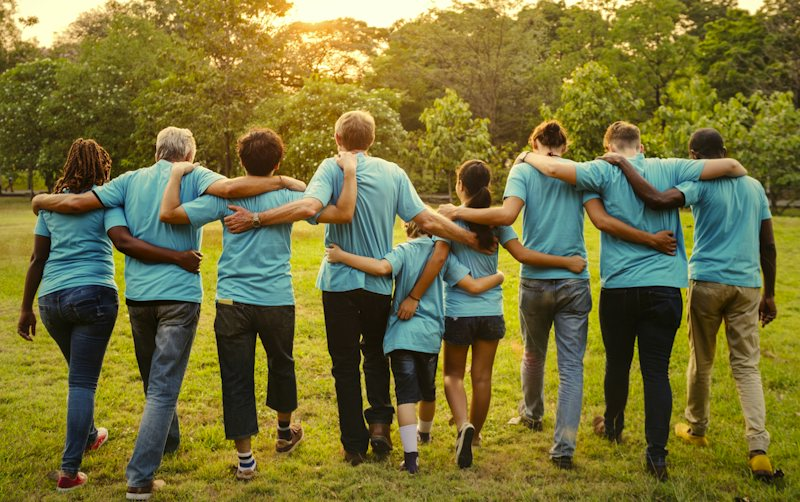
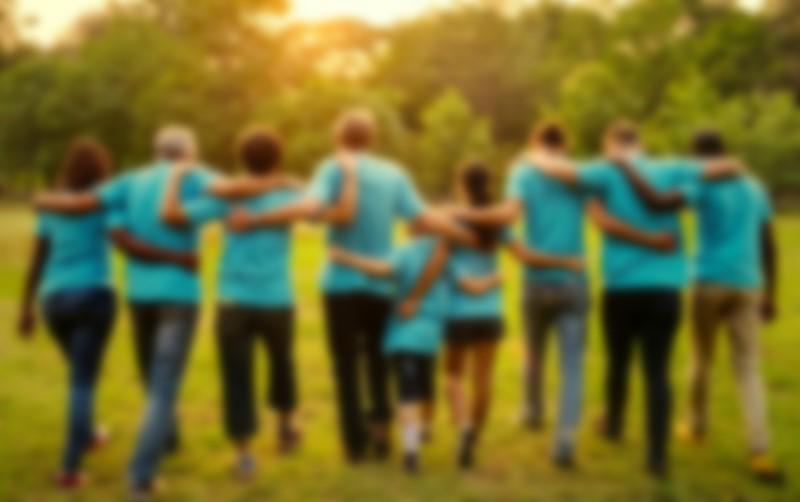
ui update

diff --git a/MBCM_PWA/Client/Pages/Guest.razor.css b/MBCM_PWA/Client/Pages/Guest.razor.css
@@ -1,0 +1,73 @@
+.main-container {
+    position: relative;
+    height: 80vh;
+    overflow: auto;
+}
+
+.splash-background {
+    background-image: url(../css/LINKING_ARMS_BLURRED.png);
+    align-self: center;
+    background-size: cover;
+    background-attachment: fixed;
+    position: absolute;
+    height: 100%;
+    width: 100%;
+}
+
+
+.main-logo {
+    padding: 20px;
+    position: relative;
+    text-align: center;
+    margin-top: 15%;
+}
+
+.logo {
+    width: 500px;
+    height: auto;
+}
+
+
+.welcome-text {
+    font-size: 40px;
+    margin: 5%;
+}
+
+.info-tile {
+    position: relative;
+    background-color: #ffffff;
+    border: 1px solid #e0e0e0;
+    border-radius: 20px;
+    box-shadow: 0 4px 4px rgba(0, 0, 0, 0.1), 2px 0 2px rgba(0, 0, 0, 0.1), -2px 0 2px rgba(0, 0, 0, 0.05);
+    padding: 20px;
+    width: 50%;
+    height: 300px;
+    margin: auto;
+    backdrop-filter: blur(40px);
+    margin-top: 100px;
+    align-self: center;
+    background-image: url('/css/volunteer.jpg');
+    background-size: cover;
+    transition: font-size 0.5s ease;
+    cursor: pointer;
+}
+
+.join-heading {
+    font-size: 30px;
+}
+
+.info-tile:hover .join-heading{
+    font-size: 2.5rem;
+}
+.join-text {
+    font-size: 20px;
+}
+
+
+.info-tile:hover .join-text{
+    font-size: 1.5rem;
+}
+
+
+
+
